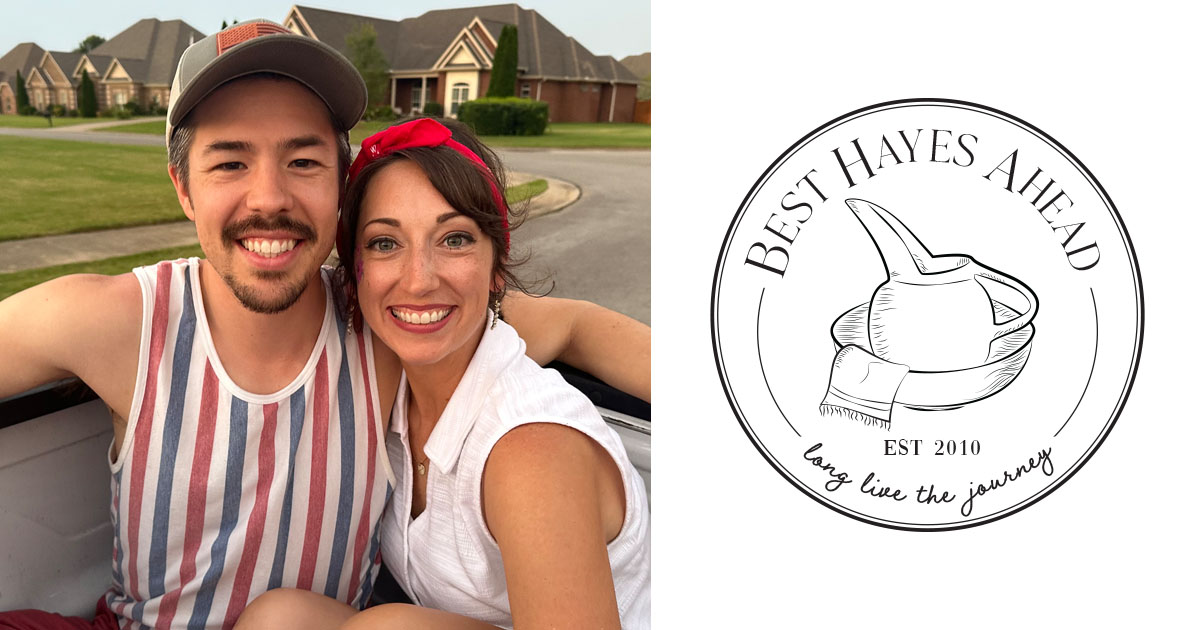
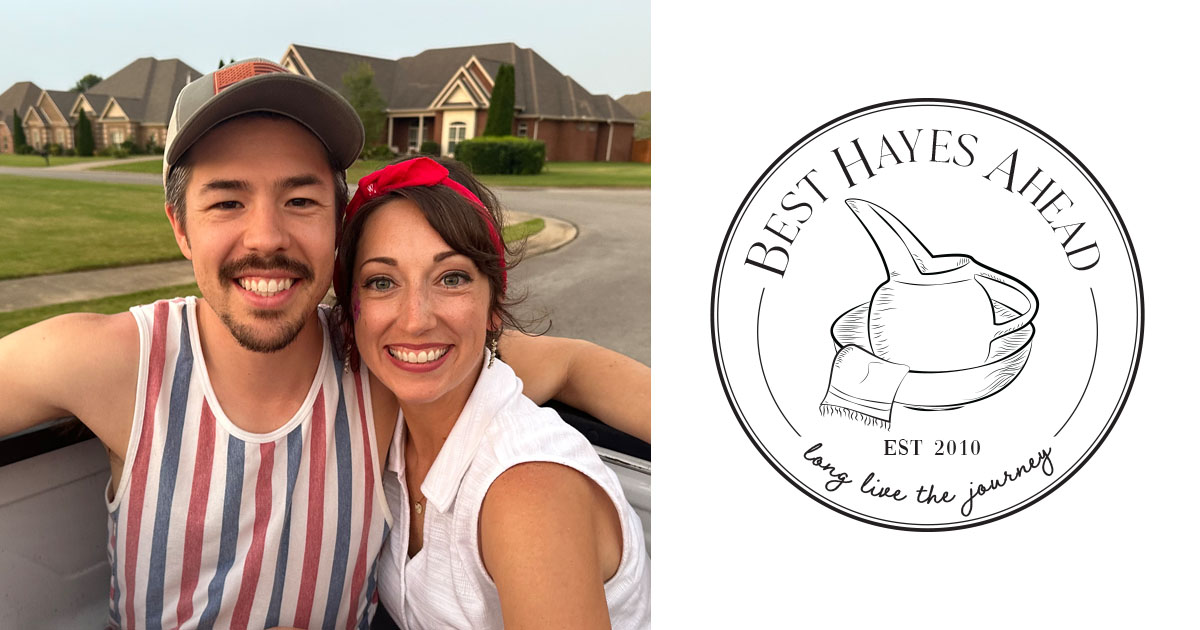
Update opengraph card and url

diff --git a/index.html b/index.html
@@ -8,7 +8,7 @@
 
     <!-- OpenGraph -->
     <meta property="og:type" content="website">
-    <meta property="og:url" content="https://besthayesahead.com">
+    <meta property="og:url" content="https://BestHayesAhead.com">
     <meta property="og:image" content="/assets/image/card.jpg">
     <meta property="og:title" content="We’re telling our stories. You’re living yours!">
 
